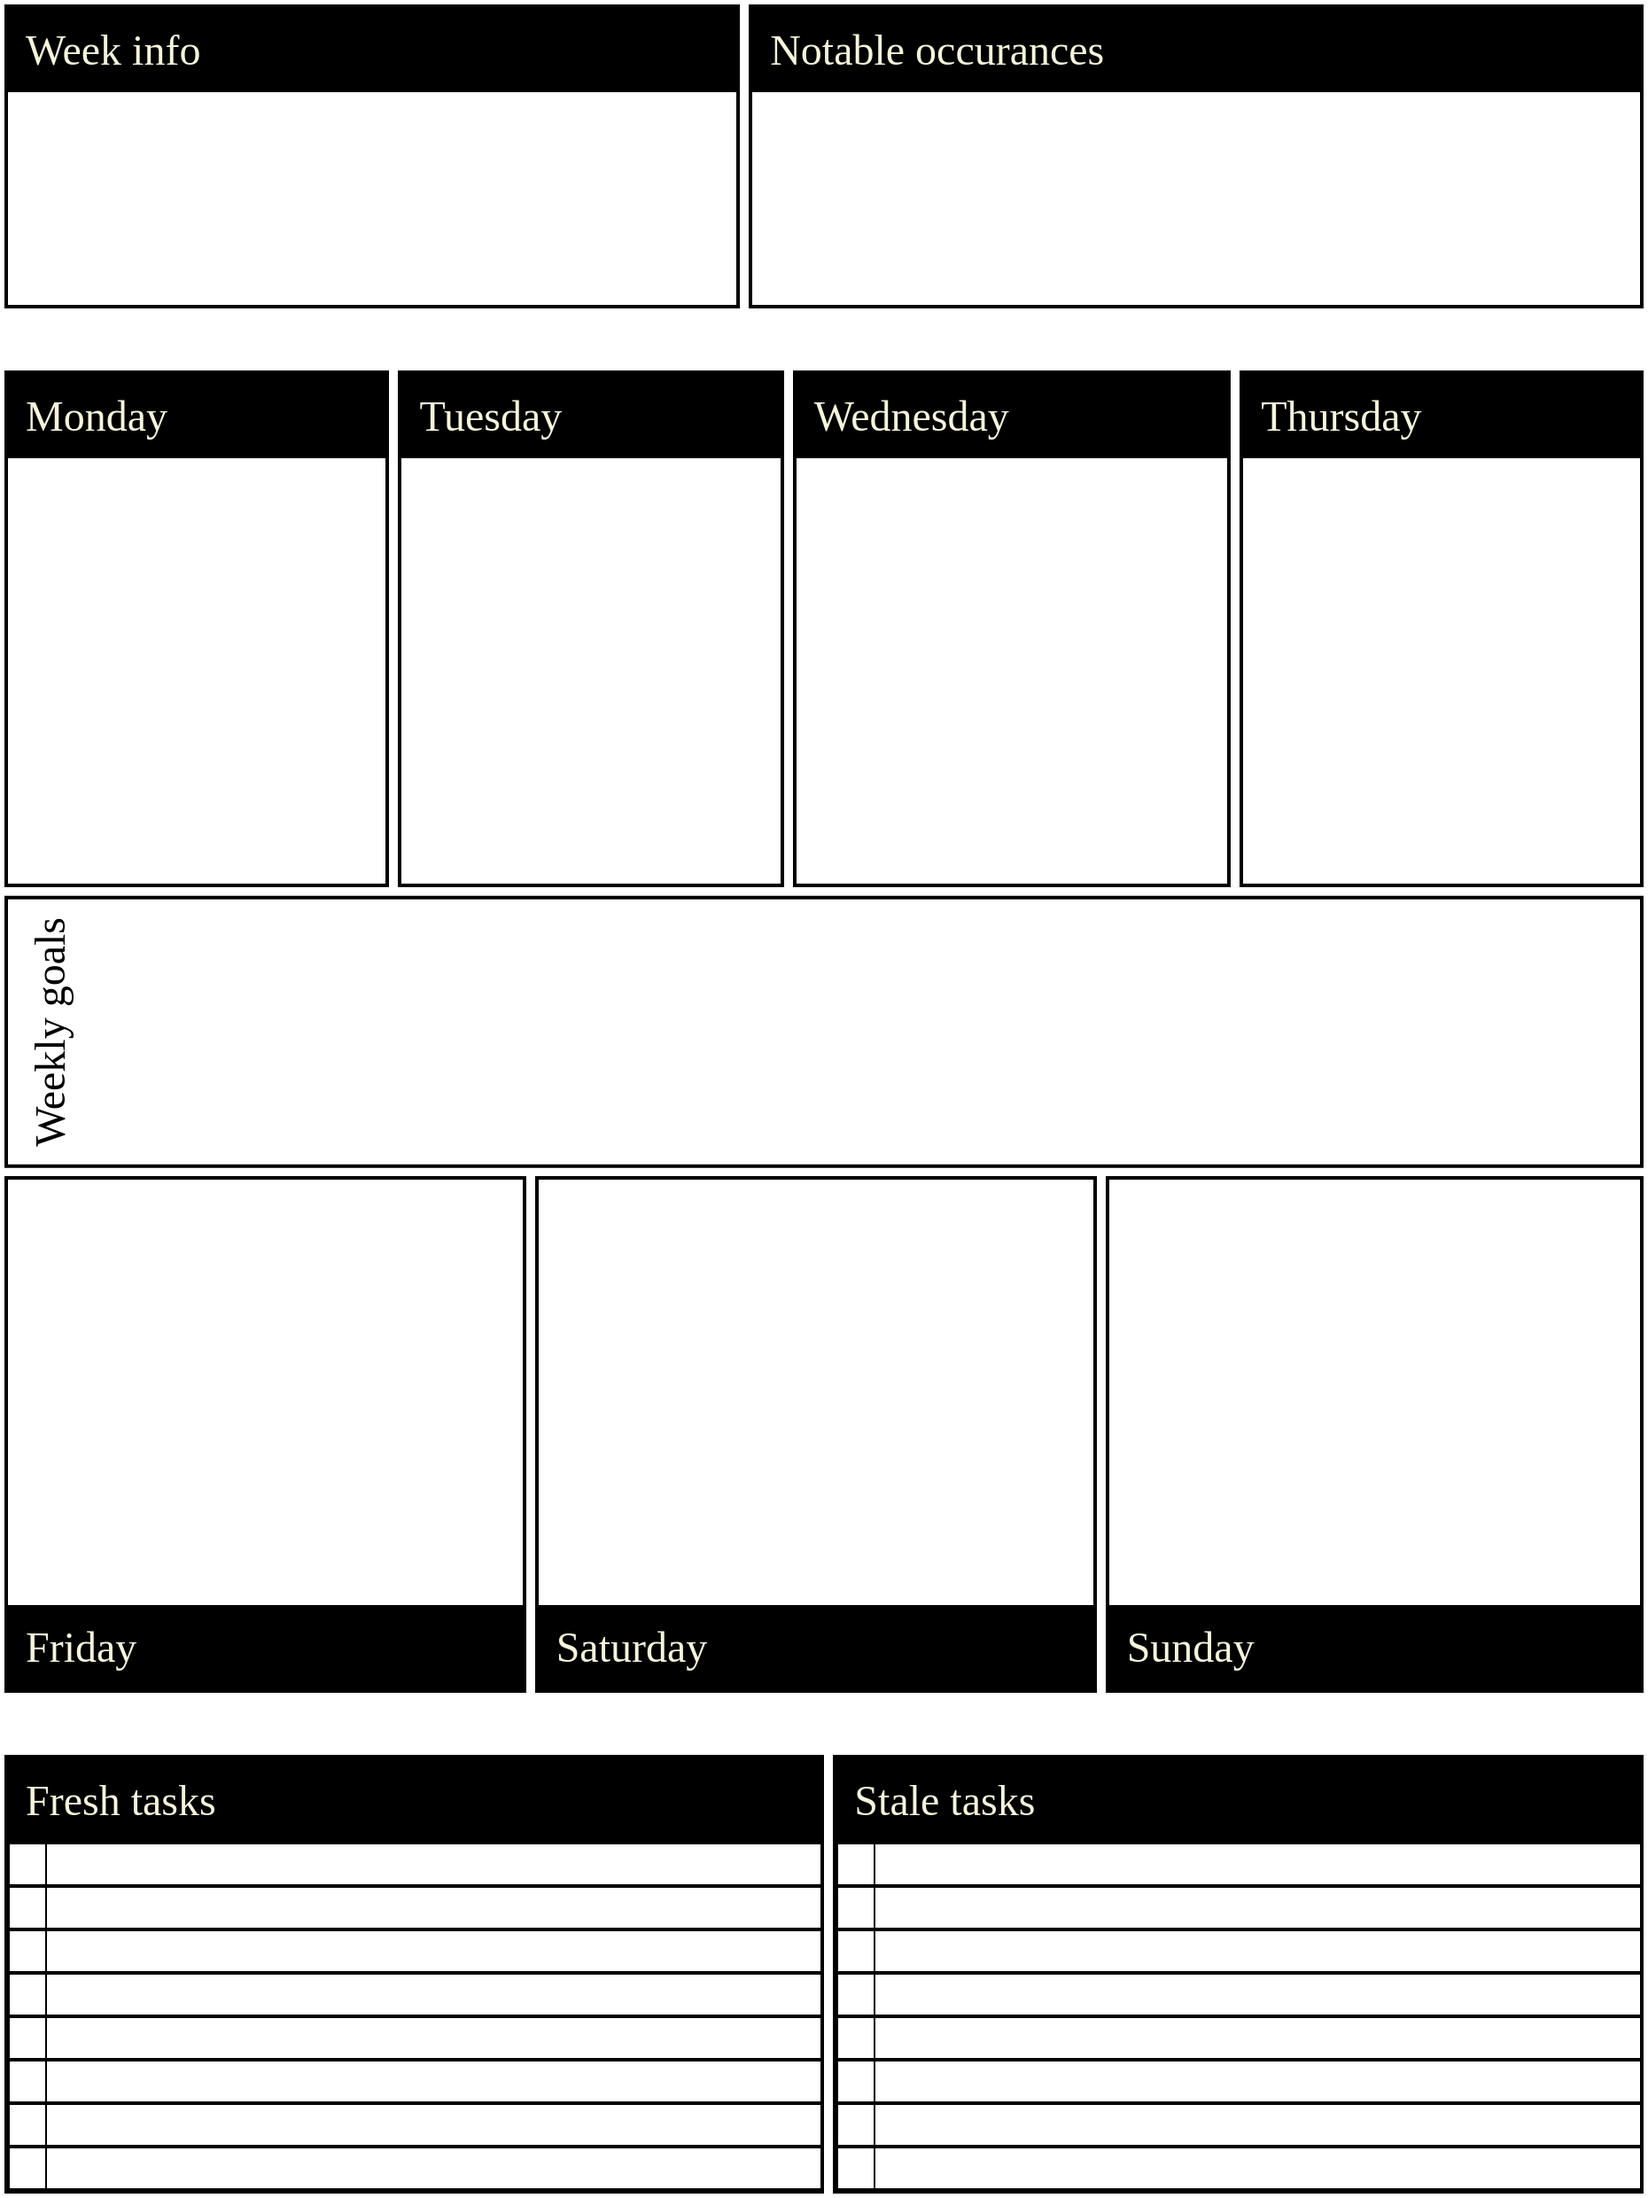
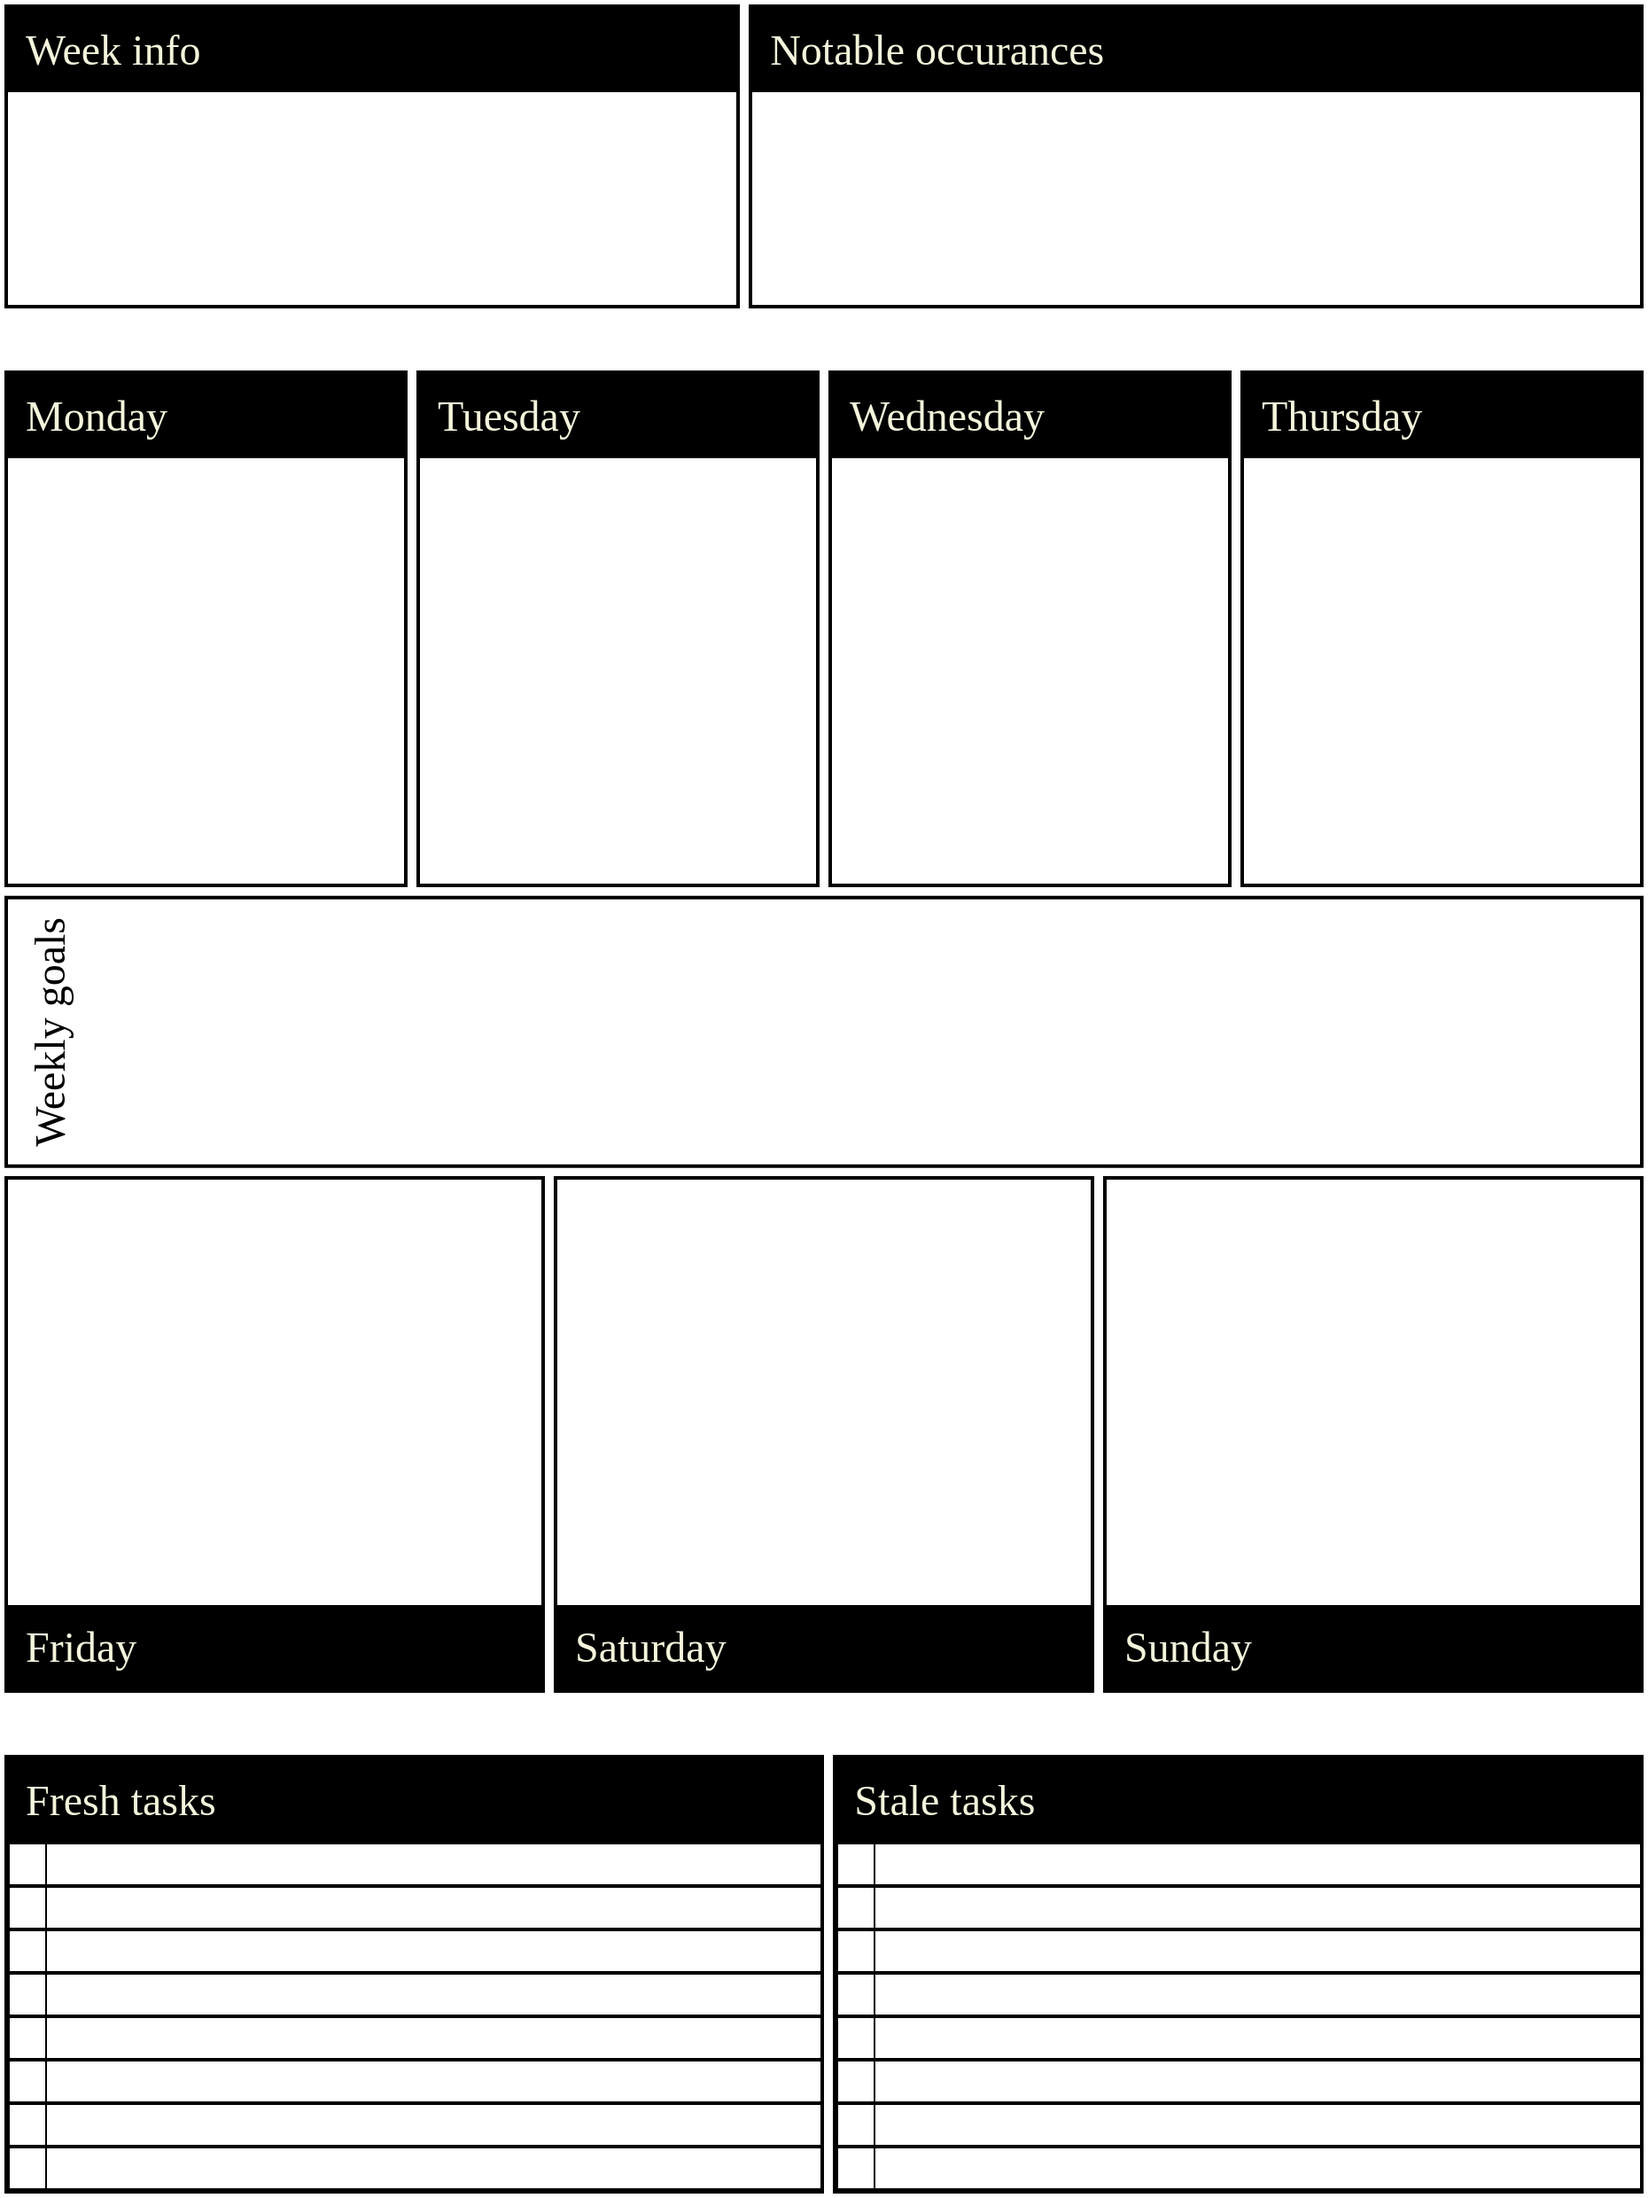
make unified days equal width

diff --git a/html/week-unified.html b/html/week-unified.html
@@ -225,17 +225,17 @@ body {
         </div>
       </div>
       <div class="unified-column unified-container growable-16">
-        <div class="unified-row unified-container growable-2">
-            <div class="cell-with-header unified-column growable">
+        <div class="unified-row growable-2" style="display: inline-grid; grid-template-columns: repeat(4, 1fr);">
+            <div class="cell-with-header" style="display: inline-block;">
               <div class="cell-header">Monday</div>
             </div>
-            <div class="cell-with-header unified-column growable">
+            <div class="cell-with-header" style="display: inline-block;">
               <div class="cell-header">Tuesday</div>
             </div>
-            <div class="cell-with-header unified-column growable">
+            <div class="cell-with-header" style="display: inline-block;">
               <div class="cell-header">Wednesday</div>
             </div>
-            <div class="cell-with-header unified-column growable">
+            <div class="cell-with-header" style="display: inline-block;">
               <div class="cell-header">Thursday</div>
             </div>
         </div>
@@ -244,7 +244,7 @@ body {
             Weekly goals
           </div>
         </div>
-        <div class="unified-row unified-container growable-2">
+        <div class="unified-row growable-2" style="display: inline-grid; grid-template-columns: repeat(3, 1fr);">
             <div class="cell-with-header unified-column growable" style="flex-direction: column-reverse;">
               <div class="cell-header">Friday</div>
             </div>
